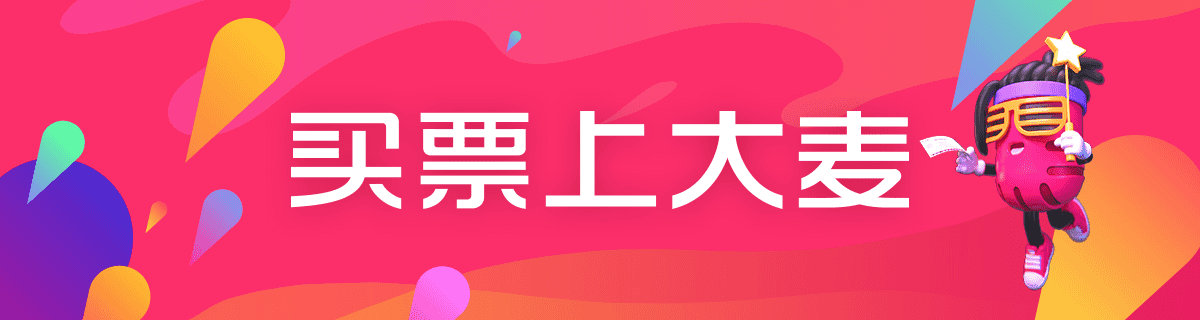
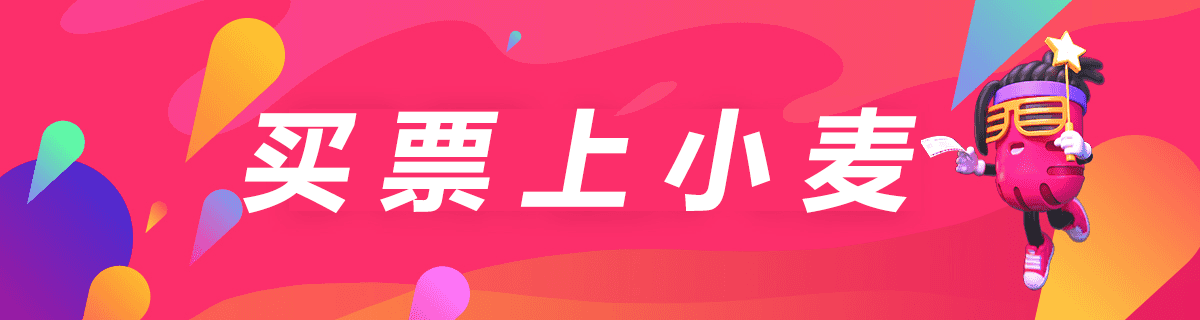
修改了添加活动的样式 修改了“大麦”的问题

Changed region(s): [[0.185, 0.3125, 0.7708, 0.6875]]

diff --git a/happyhub_master_web02/src/pages/eventManage/Send.vue b/happyhub_master_web02/src/pages/eventManage/Send.vue
@@ -6,6 +6,7 @@
       <!-- 隐藏的文件输入元素 -->
       <input type="file" ref="fileInput" @change="handleFileChange" style="display: none;"/>
     </div>
+    <el-divider direction="vertical" style="height: 320px"/>
     <div class="left">
       <el-form ref="eventForm"
                :model="eventInfo"
@@ -49,13 +50,16 @@
                            :max="5">
           </el-input-number>
         </el-form-item>
-        <el-form-item>
-          <el-button native-type="submit">
-            提交修改
-          </el-button>
-        </el-form-item>
+        <div class="btns">
+          <el-form-item>
+            <el-button native-type="submit">
+              提交修改
+            </el-button>
+          </el-form-item>
+        </div>
       </el-form>
     </div>
+    <el-divider direction="vertical" style="height: 320px"/>
     <div class="right">
       <span>活动描述</span>
       <div class="joditArea">
@@ -67,7 +71,7 @@
     <div class="dialog">
       <el-dialog
           v-model="dialogVisible"
-          width="30%"
+          width="50%"
           title="Tips"
           :show-close="false"
           :close-on-click-modal="false"
@@ -104,9 +108,11 @@
             <el-input-number v-model="seatInfo.maxCol"
                              :min="1"></el-input-number>
           </el-form-item>
-          <el-form-item>
-            <el-button native-type="submit">生成</el-button>
-          </el-form-item>
+          <div class="btns">
+            <el-form-item>
+              <el-button native-type="submit">生成</el-button>
+            </el-form-item>
+          </div>
         </el-form>
       </el-dialog>
     </div>
@@ -166,33 +172,34 @@ const eventId = ref(-1);
 const fileInput = ref()
 const send = (e, form) => {
   e.preventDefault();
-  form.validate((valid) => {
-    if (valid) {
-      eventInfo.description = jodit.value.value
-      $http.post('event/create', eventInfo).then(resp => {
-        console.log(resp)
-        if (resp.code === 200) {
-          eventId.value = resp.eventId;
-          ElMessage.success({
-            message: "创建成功",
-            duration: 750
-          })
-          // 打开创建座位的弹窗
-          getSeatInfo()
-        } else {
-          ElMessage.error({
-            message: "创建失败:"+resp.msg,
-            duration: 1250
-          })
-        }
-      })
-    } else {
-      ElMessage.error({
-        message: "创建失败，请按要求填写表单",
-        duration: 1000
-      })
-    }
-  })
+  getSeatInfo()
+  // form.validate((valid) => {
+  //   if (valid) {
+  //     eventInfo.description = jodit.value.value
+  //     $http.post('event/create', eventInfo).then(resp => {
+  //       console.log(resp)
+  //       if (resp.code === 200) {
+  //         eventId.value = resp.eventId;
+  //         ElMessage.success({
+  //           message: "创建成功",
+  //           duration: 750
+  //         })
+  //         // 打开创建座位的弹窗
+  //         getSeatInfo()
+  //       } else {
+  //         ElMessage.error({
+  //           message: "创建失败:" + resp.msg,
+  //           duration: 1250
+  //         })
+  //       }
+  //     })
+  //   } else {
+  //     ElMessage.error({
+  //       message: "创建失败，请按要求填写表单",
+  //       duration: 1000
+  //     })
+  //   }
+  // })
 }
 const triggerFileInput = () => {
   fileInput.value.click();
@@ -212,7 +219,9 @@ const getSeatInfo = () => {
   if (eventId.value > 0) {
     seatInfo.eventId = eventId.value;
     dialogVisible.value = true;
+    seatInfo.topGear = eventInfo.topGear;
   }
+  dialogVisible.value = true;
   seatInfo.eventId = eventId.value;
   seatInfo.topGear = eventInfo.topGear;
 }
@@ -227,10 +236,10 @@ const generateSeat = (e, form) => {
             duration: 1000
           })
           dialogVisible.value = false;
-          router.push("/home")
+          router.push("/eventUpdate")
         } else {
           ElMessage.error({
-            message: "生成失败:"+resp.message,
+            message: "生成失败:" + resp.message,
             duration: 1250
           })
         }
@@ -273,14 +282,18 @@ onMounted(() => {
 <style scoped lang="scss">
 .send {
   display: flex;
-  align-items: center;
+  align-items: flex-start;
   justify-content: center;
 
   .pic {
     width: 240px;
+    display: flex;
+    flex-wrap: wrap;
     align-items: center;
+    justify-content: center;
 
     span {
+      margin-bottom: 1%;
     }
 
     .el-image {
@@ -288,30 +301,46 @@ onMounted(() => {
   }
 
   .left {
+    margin-top: 2%;
     width: 40%;
     height: 100%;
     display: flex;
     align-items: center;
     justify-content: center;
 
+    .el-form-item {
+      .el-button {
+        margin-top: 5%;
+      }
+    }
   }
 
   .right {
     width: 50%;
+    display: flex;
+    flex-wrap: wrap;
+    align-items: center;
+    justify-content: center;
+
+    span {
+      margin-bottom: 1%;
+    }
 
     .joditArea {
     }
   }
 
   .dialog {
-    .el-dialog {
+    .el-dialog{
       .el-form {
+        width: 100%;
         display: flex;
         flex-wrap: wrap;
-        align-items: center;
+        align-items: flex-start;
         justify-content: flex-start;
 
         .el-form-item {
+          width: 100%;
           .el-input {
             width: 90px;
             margin-bottom: 4px;
@@ -320,6 +349,13 @@ onMounted(() => {
         }
       }
     }
+  }
+
+  .btns {
+    width: 100%;
+    display: flex;
+    align-items: center;
+    justify-content: center;
   }
 }
 </style>
